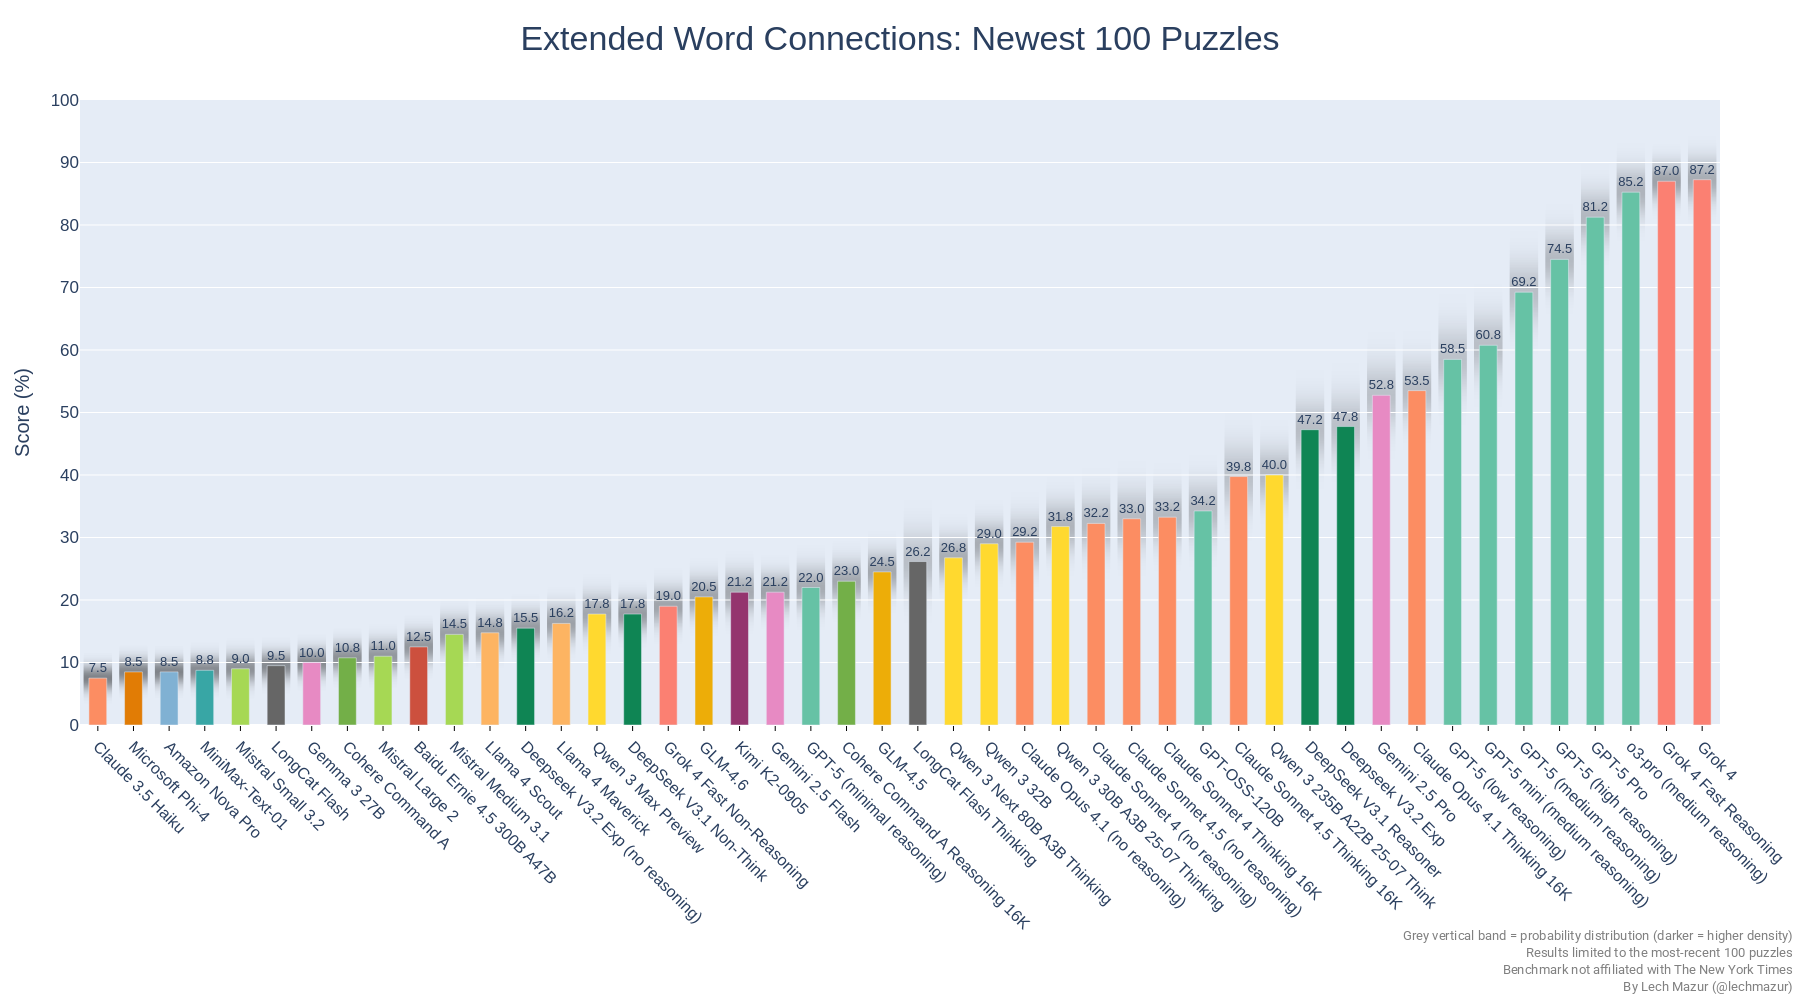
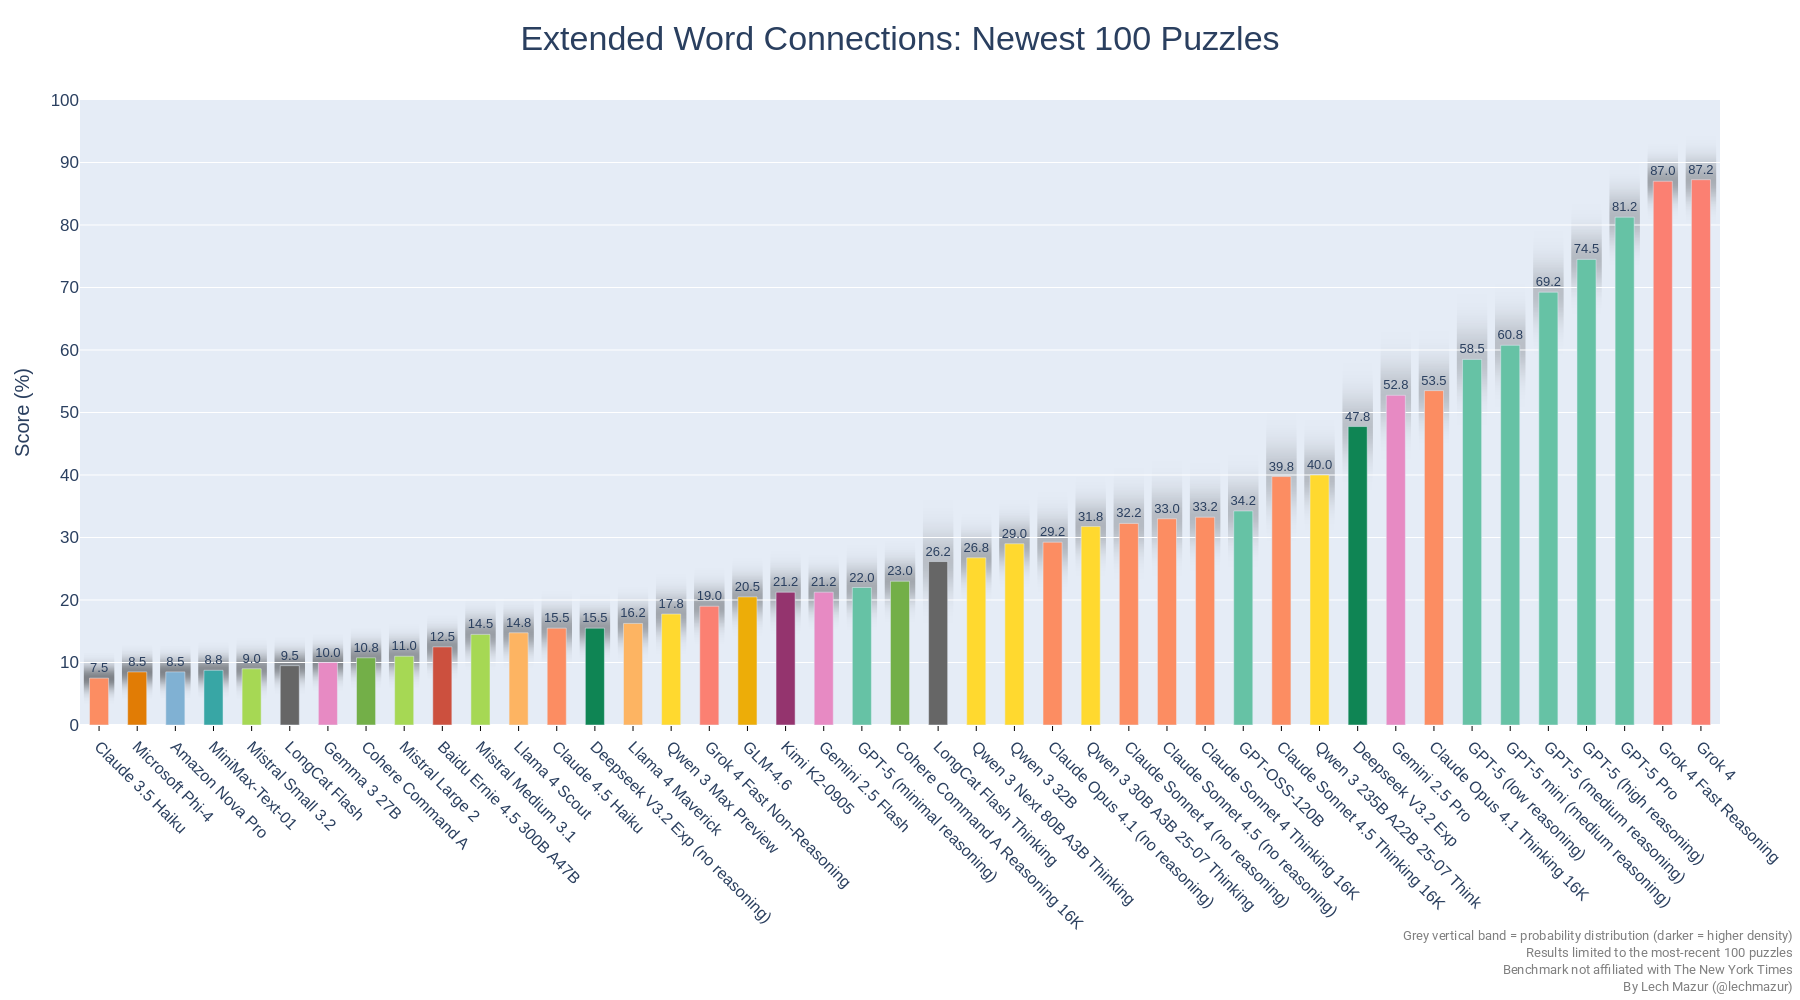
haiku 4.5

Changed region(s): [[0.0622, 0.155, 0.9956, 0.93]]

diff --git a/README.md b/README.md
@@ -77,45 +77,47 @@ As of Feb 4, 2025, there is a new version of the benchmark. The standard NYT Con
 |63|DeepSeek V3.1 Non-Think|21.6|759|
 |64|MiniMax-M1|21.3|688|
 |65|Deepseek V3.2 Exp (no reasoning)|20.7|759|
-|66|Kimi K2|19.8|759|
-|67|Qwen 3 235B A22B 25-07 Instruct|19.8|759|
-|68|Grok 3 Beta (no reasoning)|19.7|759|
-|69|Grok 2 12-12|19.2|651|
-|70|Gemini 1.5 Pro (Sept)|19.2|601|
-|71|Claude 3 Opus|19.2|650|
-|72|Claude 3.7 Sonnet|19.2|651|
-|73|Gemini 2.0 Flash|18.8|651|
-|74|GPT-4o 2024-11-20|18.7|601|
-|75|Llama 4 Maverick|18.5|759|
-|76|Qwen 2.5 Max|18.0|651|
-|77|GPT-4o 2024-08-06|17.8|601|
-|78|Claude 3.5 Sonnet 2024-10-22|17.7|651|
-|79|Llama 4 Scout|17.4|759|
-|80|DeepSeek V3-0324|16.8|759|
-|81|Llama 3.1 405B|16.2|651|
-|82|Mistral Medium 3.1|15.2|759|
-|83|DeepSeek V3|15.1|651|
-|84|Llama 3.3 70B|15.1|651|
-|85|Baidu Ernie 4.5 300B A47B|14.8|759|
-|86|GPT-4.1 mini|14.4|759|
-|87|MiniMax-Text-01|13.8|759|
-|88|Cohere Command A|13.1|759|
-|89|Mistral Large 2|12.4|759|
-|90|Gemma 2 27B|12.2|651|
-|91|LongCat Flash|12.1|759|
-|92|Gemma 3 27B|11.6|759|
-|93|Mistral Medium 3|11.5|759|
-|94|Mistral Small 3.1|11.4|651|
-|95|Mistral Small 3.2|11.2|759|
-|96|Qwen 2.5 72B|10.5|759|
-|97|Claude 3.5 Haiku|10.0|759|
-|98|Amazon Nova Pro|9.9|759|
-|99|Microsoft Phi-4|9.9|759|
-|100|GPT-4o mini|9.7|759|
-|101|Mistral Small 3|8.9|601|
-|102|GPT-4.1 nano|8.1|759|
-|103|GLM4-32B-0414|7.6|759|
-|104|Claude 3 Haiku|2.2|601|
+|66|Claude 4.5 Haiku|20.0|759|
+|67|Kimi K2|19.8|759|
+|68|Qwen 3 235B A22B 25-07 Instruct|19.8|759|
+|69|Grok 3 Beta (no reasoning)|19.7|759|
+|70|Grok 2 12-12|19.2|651|
+|71|Gemini 1.5 Pro (Sept)|19.2|601|
+|72|Claude 3 Opus|19.2|650|
+|73|Claude 3.7 Sonnet|19.2|651|
+|74|Gemini 2.0 Flash|18.8|651|
+|75|GPT-4o 2024-11-20|18.7|601|
+|76|Llama 4 Maverick|18.5|759|
+|77|Qwen 2.5 Max|18.0|651|
+|78|GPT-4o 2024-08-06|17.8|601|
+|79|Claude 3.5 Sonnet 2024-10-22|17.7|651|
+|80|Llama 4 Scout|17.4|759|
+|81|DeepSeek V3-0324|16.8|759|
+|82|Llama 3.1 405B|16.2|651|
+|83|Mistral Medium 3.1|15.2|759|
+|84|DeepSeek V3|15.1|651|
+|85|Llama 3.3 70B|15.1|651|
+|86|Baidu Ernie 4.5 300B A47B|14.8|759|
+|87|GPT-4.1 mini|14.4|759|
+|88|MiniMax-Text-01|13.8|759|
+|89|Cohere Command A|13.1|759|
+|90|Mistral Large 2|12.4|759|
+|91|Gemma 2 27B|12.2|651|
+|92|LongCat Flash|12.1|759|
+|93|Gemma 3 27B|11.6|759|
+|94|Mistral Medium 3|11.5|759|
+|95|Mistral Small 3.1|11.4|651|
+|96|Mistral Small 3.2|11.2|759|
+|97|Qwen 2.5 72B|10.5|759|
+|98|Claude 3.5 Haiku|10.0|759|
+|99|Amazon Nova Pro|9.9|759|
+|100|Microsoft Phi-4|9.9|759|
+|101|GPT-4o mini|9.7|759|
+|102|Mistral Small 3|8.9|601|
+|103|GPT-4.1 nano|8.1|759|
+|104|GLM4-32B-0414|7.6|759|
+|105|Claude 3 Haiku|2.2|601|
+
 
 
 
@@ -227,6 +229,7 @@ This benchmark evaluates large language models (LLMs) using 436 NYT Connections 
 ---
 
 ## Updates
+- Oct 15, 2025: Claude Haiku 4.5 added.
 - Oct 14, 2025: Claude Sonnet 4.5, Deepseek V3.2 Exp, GLM-4.6 added.
 - Sep 19, 2025: Grok 4 Fast, Qwen 3 Next 80B A3B Thinking, LongCat Flash Chat added.
 - Sep 6, 2025: Kimi K2-0905 added.
